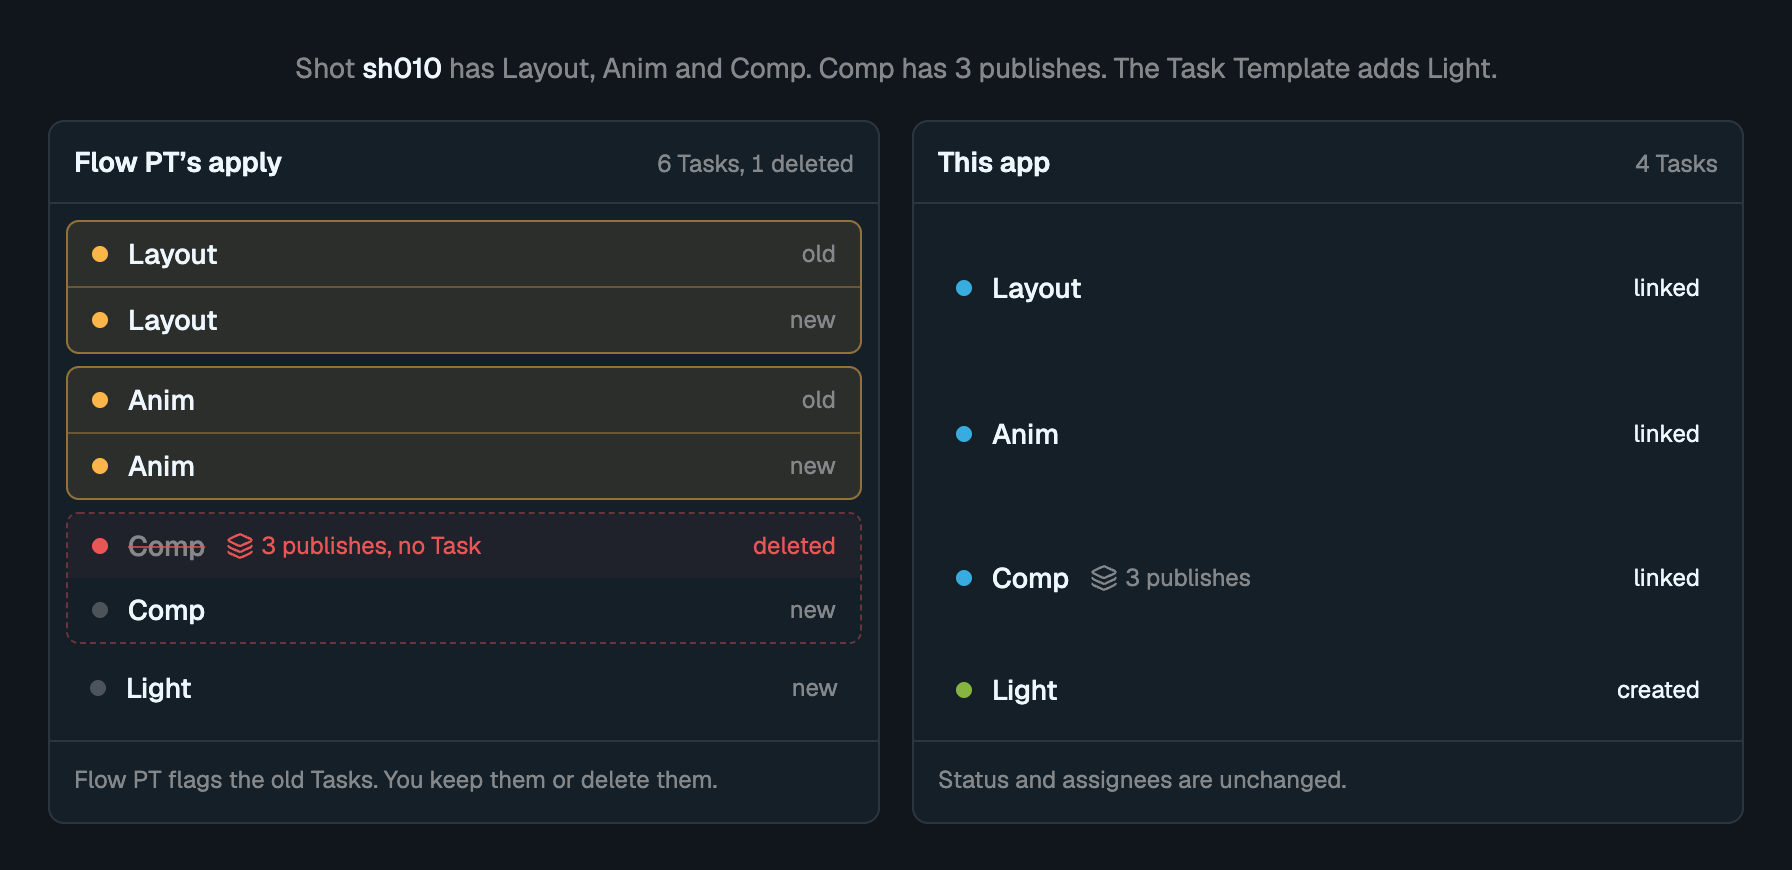
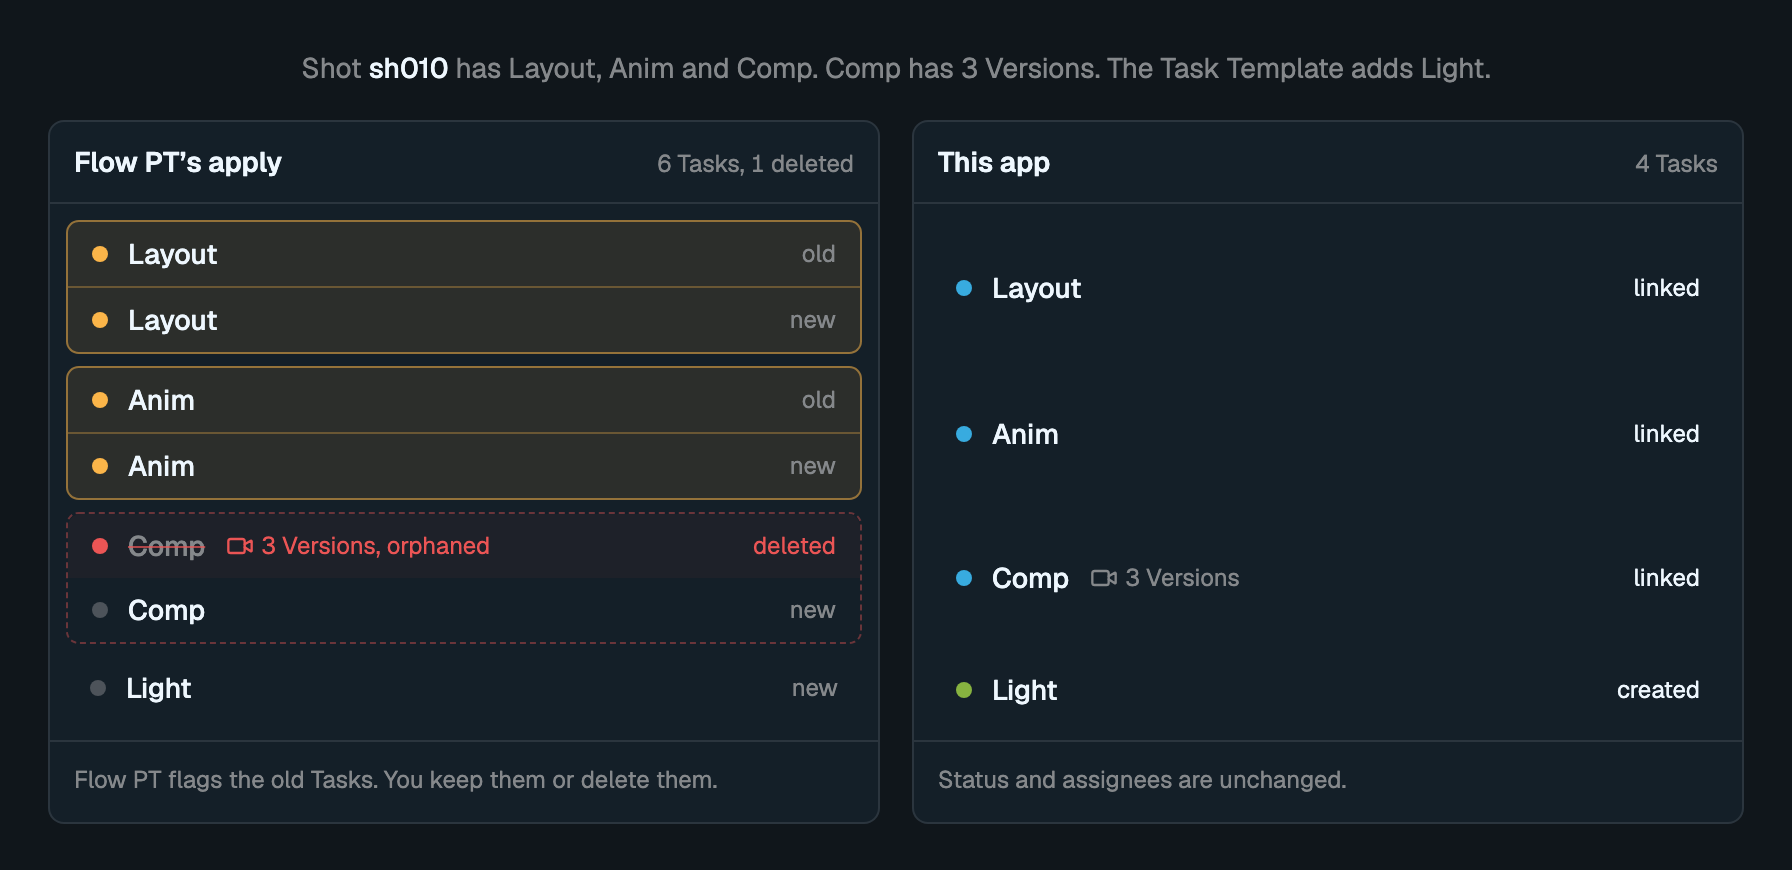
Home picture: 3 Versions, orphaned (#71)
The merge picture's deleted Comp shows "3 Versions, orphaned" with the Version icon; the
caption and This app's Comp say 3 Versions. /how and the plan's delete line say orphaned.
README images re-shot at the same crop (element plus 24px, 896px wide at 2x).

Changed region(s): [[0.1562, 0.0621, 0.8438, 0.0931], [0.125, 0.6207, 0.2812, 0.6517], [0.5938, 0.6517, 0.6875, 0.6828]]

diff --git a/src/lib/app/merge-picture.svelte b/src/lib/app/merge-picture.svelte
@@ -1,19 +1,19 @@
 <!--
 	Home's one picture: a Shot's Tasks after two applies of the same template. Left, Flow PT's own
 	apply (forum topic 20654): the old Tasks are flagged; kept, they are duplicated; deleted, their
-	publishes have no Task. Right, this app: matched by name and step,
+	Versions are orphaned. Right, this app: matched by name and step,
 	linked, only the missing Task created. Static, drawn with theme tokens only; the words match the
 	plan's outcome labels (linked, created).
 -->
 <script lang="ts">
-	import Layers from '@lucide/svelte/icons/layers';
+	import Video from '@lucide/svelte/icons/video';
 	import { cn } from '$lib/utils.js';
 
-	type Row = { name: string; tag: string; tone: 'dup' | 'gone' | 'new' | 'linked' | 'created'; publishes?: string };
+	type Row = { name: string; tag: string; tone: 'dup' | 'gone' | 'new' | 'linked' | 'created'; versions?: string };
 
 	/**
 	 * One line per template task, both sides: Flow PT's Tasks for it (an old one kept beside the new
-	 * one, or deleted with its publishes orphaned), and this app's single Task.
+	 * one, or deleted with its Versions orphaned), and this app's single Task.
 	 */
 	const lines: Array<{ theirs: Row[]; ours: Row }> = [
 		{
@@ -32,10 +32,10 @@
 		},
 		{
 			theirs: [
-				{ name: 'Comp', tag: 'deleted', tone: 'gone', publishes: '3 publishes, no Task' },
+				{ name: 'Comp', tag: 'deleted', tone: 'gone', versions: '3 Versions, orphaned' },
 				{ name: 'Comp', tag: 'new', tone: 'new' }
 			],
-			ours: { name: 'Comp', tag: 'linked', tone: 'linked', publishes: '3 publishes' }
+			ours: { name: 'Comp', tag: 'linked', tone: 'linked', versions: '3 Versions' }
 		},
 		{ theirs: [{ name: 'Light', tag: 'new', tone: 'new' }], ours: { name: 'Light', tag: 'created', tone: 'created' } }
 	];
@@ -53,10 +53,10 @@
 	<div class="flex min-h-8 items-center gap-2.5 px-3 py-1.5 text-sm">
 		<span class={cn('size-2 shrink-0 rounded-full', DOT[r.tone])} aria-hidden="true"></span>
 		<span class={cn('font-medium', r.tone === 'gone' && 'text-muted-foreground line-through decoration-destructive/70')}>{r.name}</span>
-		{#if r.publishes}
+		{#if r.versions}
 			<span
 				class={cn('flex items-center gap-1 text-xs', r.tone === 'gone' ? 'text-destructive' : 'text-muted-foreground')}
-				><Layers class="size-3.5" aria-hidden="true" />{r.publishes}</span
+				><Video class="size-3.5" aria-hidden="true" />{r.versions}</span
 			>
 		{/if}
 		<span
@@ -70,7 +70,7 @@
 
 <figure class="flex w-full flex-col gap-4" data-slot="merge-picture">
 	<figcaption class="text-muted-foreground text-center text-sm text-balance">
-		Shot <span class="text-foreground font-medium">sh010</span> has Layout, Anim and Comp. Comp has 3 publishes. The
+		Shot <span class="text-foreground font-medium">sh010</span> has Layout, Anim and Comp. Comp has 3 Versions. The
 		Task Template adds Light.
 	</figcaption>
 

diff --git a/src/lib/pure/plan-summary.ts b/src/lib/pure/plan-summary.ts
@@ -341,7 +341,7 @@ export function taskLines(plan: EntityPlan, input: SummaryInput): TaskLine[] {
 			if (outcome === 'omitted') details.push({ text: `Status ${row.task.status ?? '(none)'} becomes ${opts.omitStatus || 'the omit status (pick one)'}.` });
 			if (outcome === 'deleted')
 				details.push({
-					text: `Deleted${opts.deleteConfirmed ? '' : ' once you confirm'}. Its ${row.usage.versions} Versions and ${row.usage.publishedFiles} PublishedFiles lose their Task link; undo revives it.`,
+					text: `Deleted${opts.deleteConfirmed ? '' : ' once you confirm'}. Its ${row.usage.versions} Versions and ${row.usage.publishedFiles} PublishedFiles are orphaned; undo revives it.`,
 					...(used ? { tone: 'destructive' as const } : {})
 				});
 			const markers: Marker[] = [];

diff --git a/src/lib/pure/plan-summary.test.ts b/src/lib/pure/plan-summary.test.ts
@@ -172,7 +172,7 @@ describe('taskLines: one outcome per Task', () => {
 		expect(paint.outcome).toBe('deleted');
 		expect(paint.markers).toContainEqual({ key: 'usage', label: '2 Versions, 3 PublishedFiles', tone: 'destructive' });
 		expect(paint.details.map((d) => d.text)).toContain(
-			'Deleted once you confirm. Its 2 Versions and 3 PublishedFiles lose their Task link; undo revives it.'
+			'Deleted once you confirm. Its 2 Versions and 3 PublishedFiles are orphaned; undo revives it.'
 		);
 		expect(byTask(lines, 13).outcome).toBe('omitted');
 		expect(byTask(lines, 13).details.map((d) => d.text)).toContain('Status wtg becomes omt.');

diff --git a/src/routes/how/+page.svelte b/src/routes/how/+page.svelte
@@ -227,8 +227,8 @@
 					</div>
 				</dl>
 				<p>
-					A Task with Versions or published files can be deleted, with a warning that shows the counts. They stay, with no
-					Task. Undo revives the Task and links them to it again.
+					A Task with Versions or published files can be deleted, with a warning that shows the counts. They stay,
+					orphaned. Undo revives the Task and links them to it again.
 				</p>
 			</section>
 

diff --git a/README.md b/README.md
@@ -7,7 +7,7 @@ run.
 
 <picture>
   <source media="(prefers-color-scheme: dark)" srcset="docs/img/merge-dark.png">
-  <img alt="A Shot with Layout, Anim and Comp gets a template that adds Light. Flow PT's apply duplicates Layout and Anim and deletes Comp with its publishes. This app links the three and creates Light." src="docs/img/merge-light.png">
+  <img alt="A Shot with Layout, Anim and Comp gets a template that adds Light. Flow PT's apply duplicates Layout and Anim and deletes Comp, orphaning its 3 Versions. This app links the three and creates Light." src="docs/img/merge-light.png">
 </picture>
 
 ## The ask
